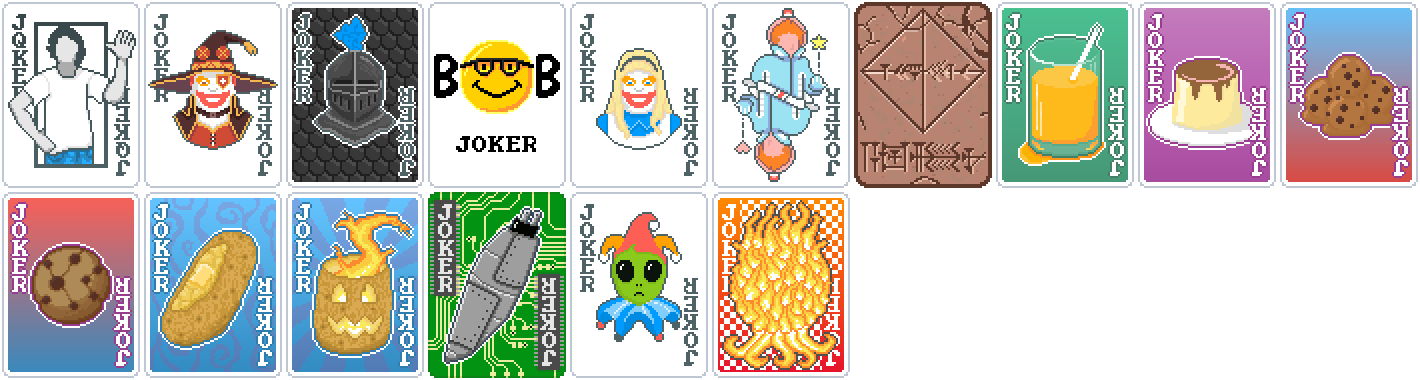
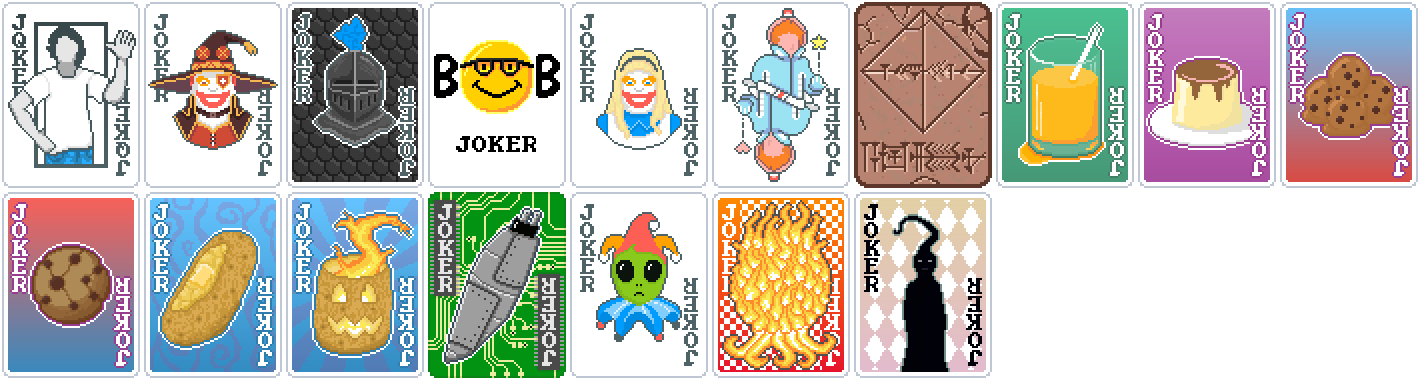
-Added Nyarlathotep -Changed readme -Changed minor wording in license for clarity

Changed region(s): [[0.5887, 0.4921, 0.7127, 1.0]]

diff --git a/README.md b/README.md
@@ -1,9 +1,11 @@
 ![Manifold](manifold.png "Manifold")
 
+---
+
 A vanilla-style Balatro mod.
 
 ## About
-This mod is intended to preserve vanilla balance and follow [LocalThunk's design guidelines](https://www.reddit.com/r/balatro/comments/1czo9g0/guidelines_for_joker_design/). I recommend you play without using unlock all. For more information, see the [wiki](https://balatromods.miraheze.org/wiki/Manifold).
+This mod is intended to preserve vanilla balance while adding new content. I recommend you play without using `Unlock All`. For more information, see the [wiki](https://balatromods.miraheze.org/wiki/Manifold).
 
 ## Installing
 1. Install [Steamodded](https://github.com/Steamodded/smods/wiki).
